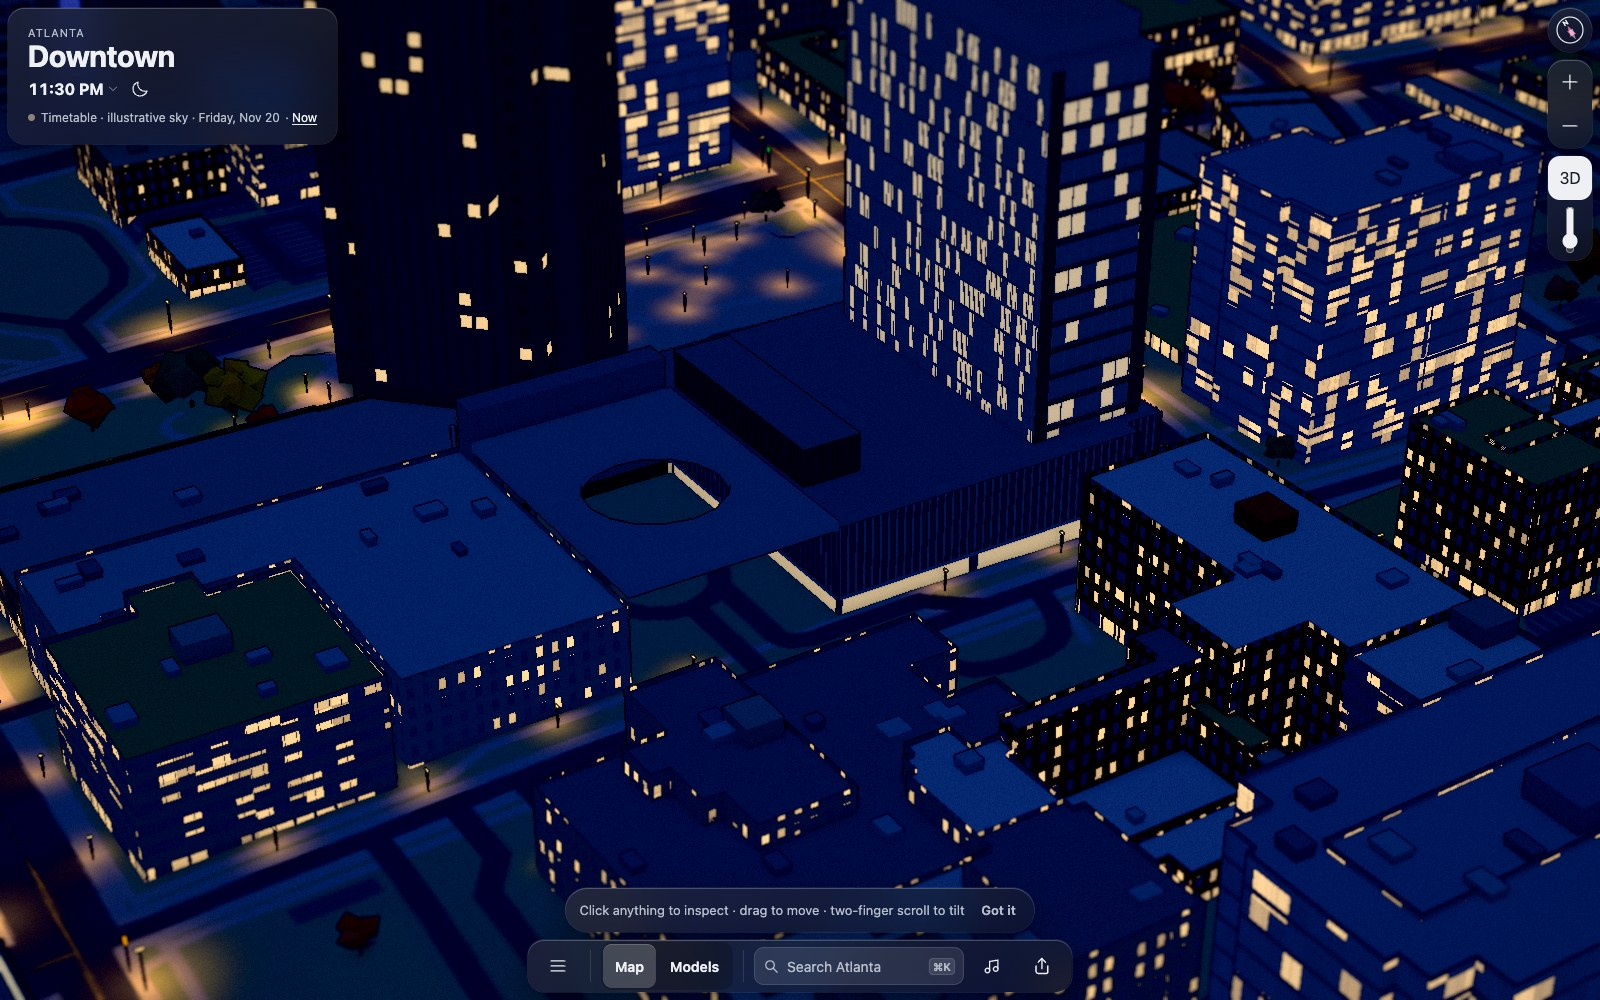
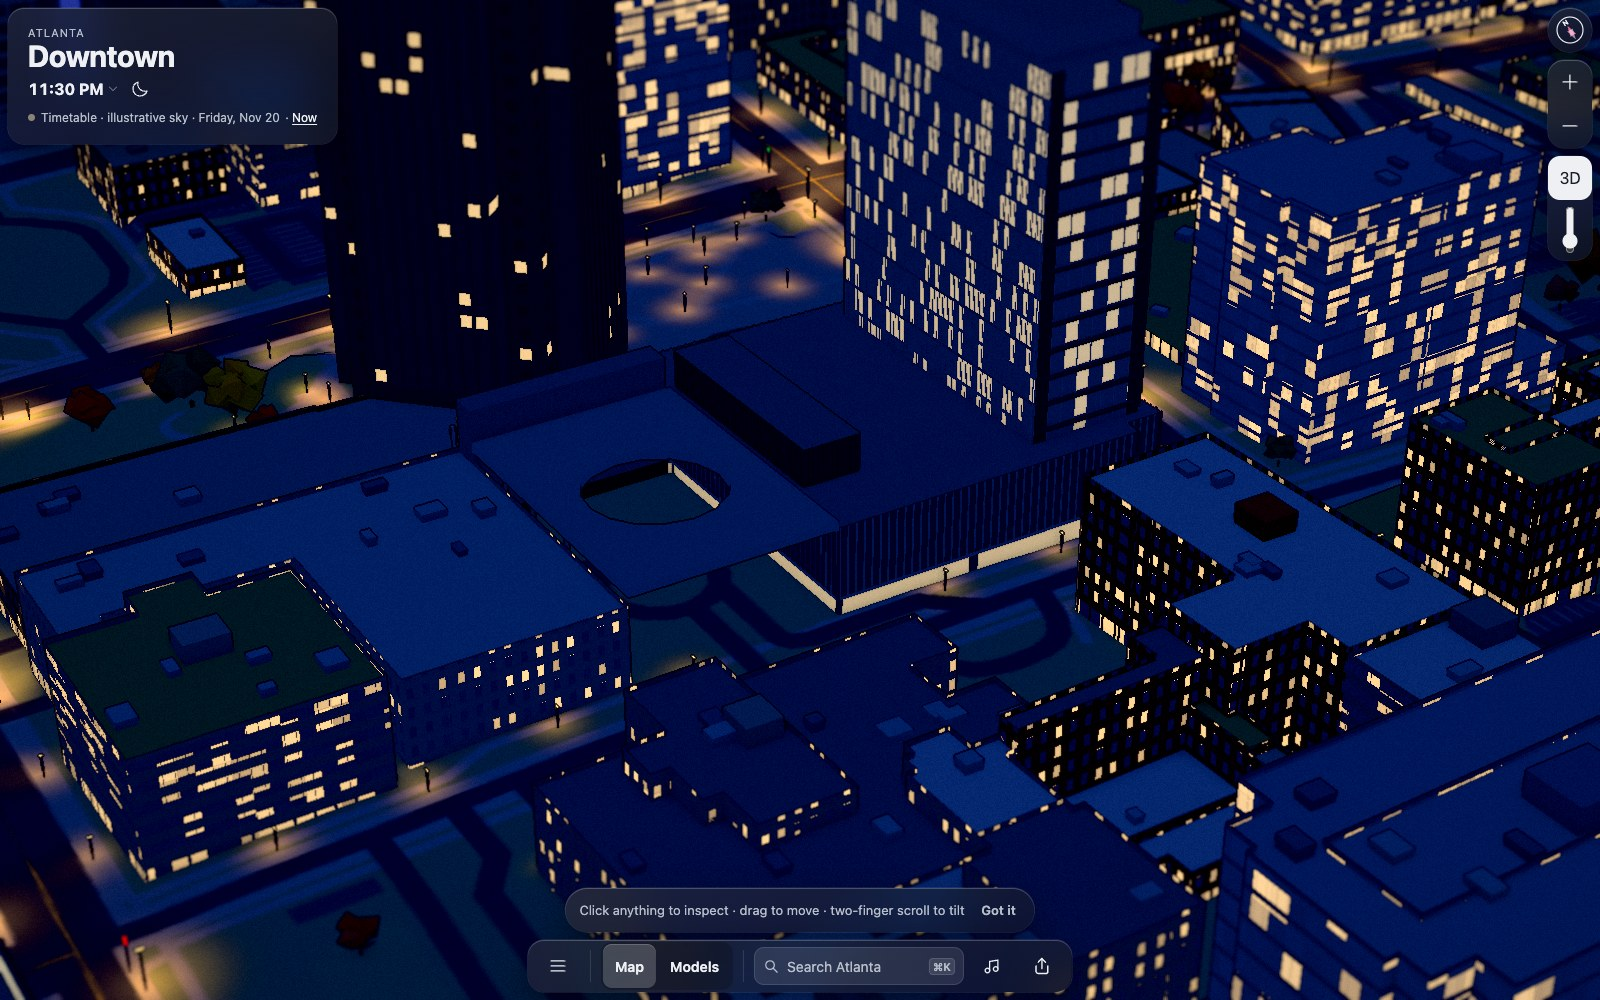
Light Winship's windows with skin-kit litHash

Changed region(s): [[0.5312, 0.0, 0.7188, 0.434]]

diff --git a/web/src/city/winship.ts b/web/src/city/winship.ts
@@ -3,6 +3,7 @@ import type { GroundGrid } from '../terrain/grid';
 import { pointInRing, type P2 } from '../vignette/geom';
 import type { VBuilding } from '../vignette/world';
 import { landmarkShell } from './landmark-shell';
+import { litHash, seedOf } from './skin-kit';
 
 /**
  * Winship Cancer Institute at Emory Midtown (SOM with May Architecture, 2023):
@@ -24,14 +25,6 @@ const glass = '#a7bcc2',
   roofDeck = '#a19f99',
   screen = '#c9cdcc';
 
-/** A stable, well-mixed 0–1 value per window. TODO: switch to skin-kit's litHash once #470 lands. */
-function lit(seed: number, face: number, floor: number, bay: number) {
-  let h = Math.imul(seed ^ 0x9e3779b9, 0x85ebca6b) ^ Math.imul(face + 1, 0xc2b2ae35);
-  h = Math.imul(h ^ Math.imul(floor + 1, 0x27d4eb2d), 0x165667b1) ^ Math.imul(bay + 7, 0x9e3779b1);
-  h ^= h >>> 15; h = Math.imul(h, 0x2c1b3c6d); h ^= h >>> 12;
-  return (h >>> 0) / 4294967296;
-}
-
 type Shell = NonNullable<ReturnType<typeof landmarkShell>>;
 
 /** Faces of a plan, offset outward. */
@@ -52,6 +45,7 @@ function quad(s: Shell, at: (t: number, y: number, d: number) => number[], l: nu
 
 export function createWinship(buildings: VBuilding[], site: VBuilding, grid: GroundGrid) {
   const origin: P2 = [530.6, -1813];
+  const seed = seedOf(site.id);
   const s = landmarkShell(buildings, grid, site.id, 'Winship at Emory Midtown', origin, [1, 0],
     [[0, 0], [40, 0], [-40, -20]]);
   if (!s) return null;
@@ -112,7 +106,7 @@ export function createWinship(buildings: VBuilding[], site: VBuilding, grid: Gro
     }
     for (let f = first; f < floors; f++) {
       for (let k = 0; k < n; k++) {
-        if (lit(886, face, f, k) >= 0.32) continue;
+        if (litHash(seed, face, f, k) >= 0.32) continue;
         const y = Math.max(lobby + f * pitch + 0.3, podiumTop + 0.2);
         quad(s, at, k / n + 0.1 / len, (k + 1) / n - 0.1 / len, y, lobby + (f + 1) * pitch - 0.3, 0.05, glass, true);
       }

diff --git a/docs/log/ui/winship/README.md b/docs/log/ui/winship/README.md
@@ -30,7 +30,7 @@ The photographs are Dave Burk (© SOM) and David Kresses (© May Architecture), 
 
 ## Lighting
 
-There is no full-night exterior. This is an inpatient and research building, so the night view lights about a third of the panes, through a stable mixed hash (to move to skin-kit's `litHash` once #470 lands). That is more than an office tower and less than housing. The podium storefront is lit, and downlights dot the canopy soffit (an estimate: the photographs are daytime only). The crown stays unlit.
+There is no full-night exterior. This is an inpatient and research building, so the night view lights about a third of the panes, through skin-kit's `litHash(seedOf(id), face, floor, bay)`. That is more than an office tower and less than housing. The podium storefront is lit, and downlights dot the canopy soffit (an estimate: the photographs are daytime only). The crown stays unlit.
 
 ## Captures
 
